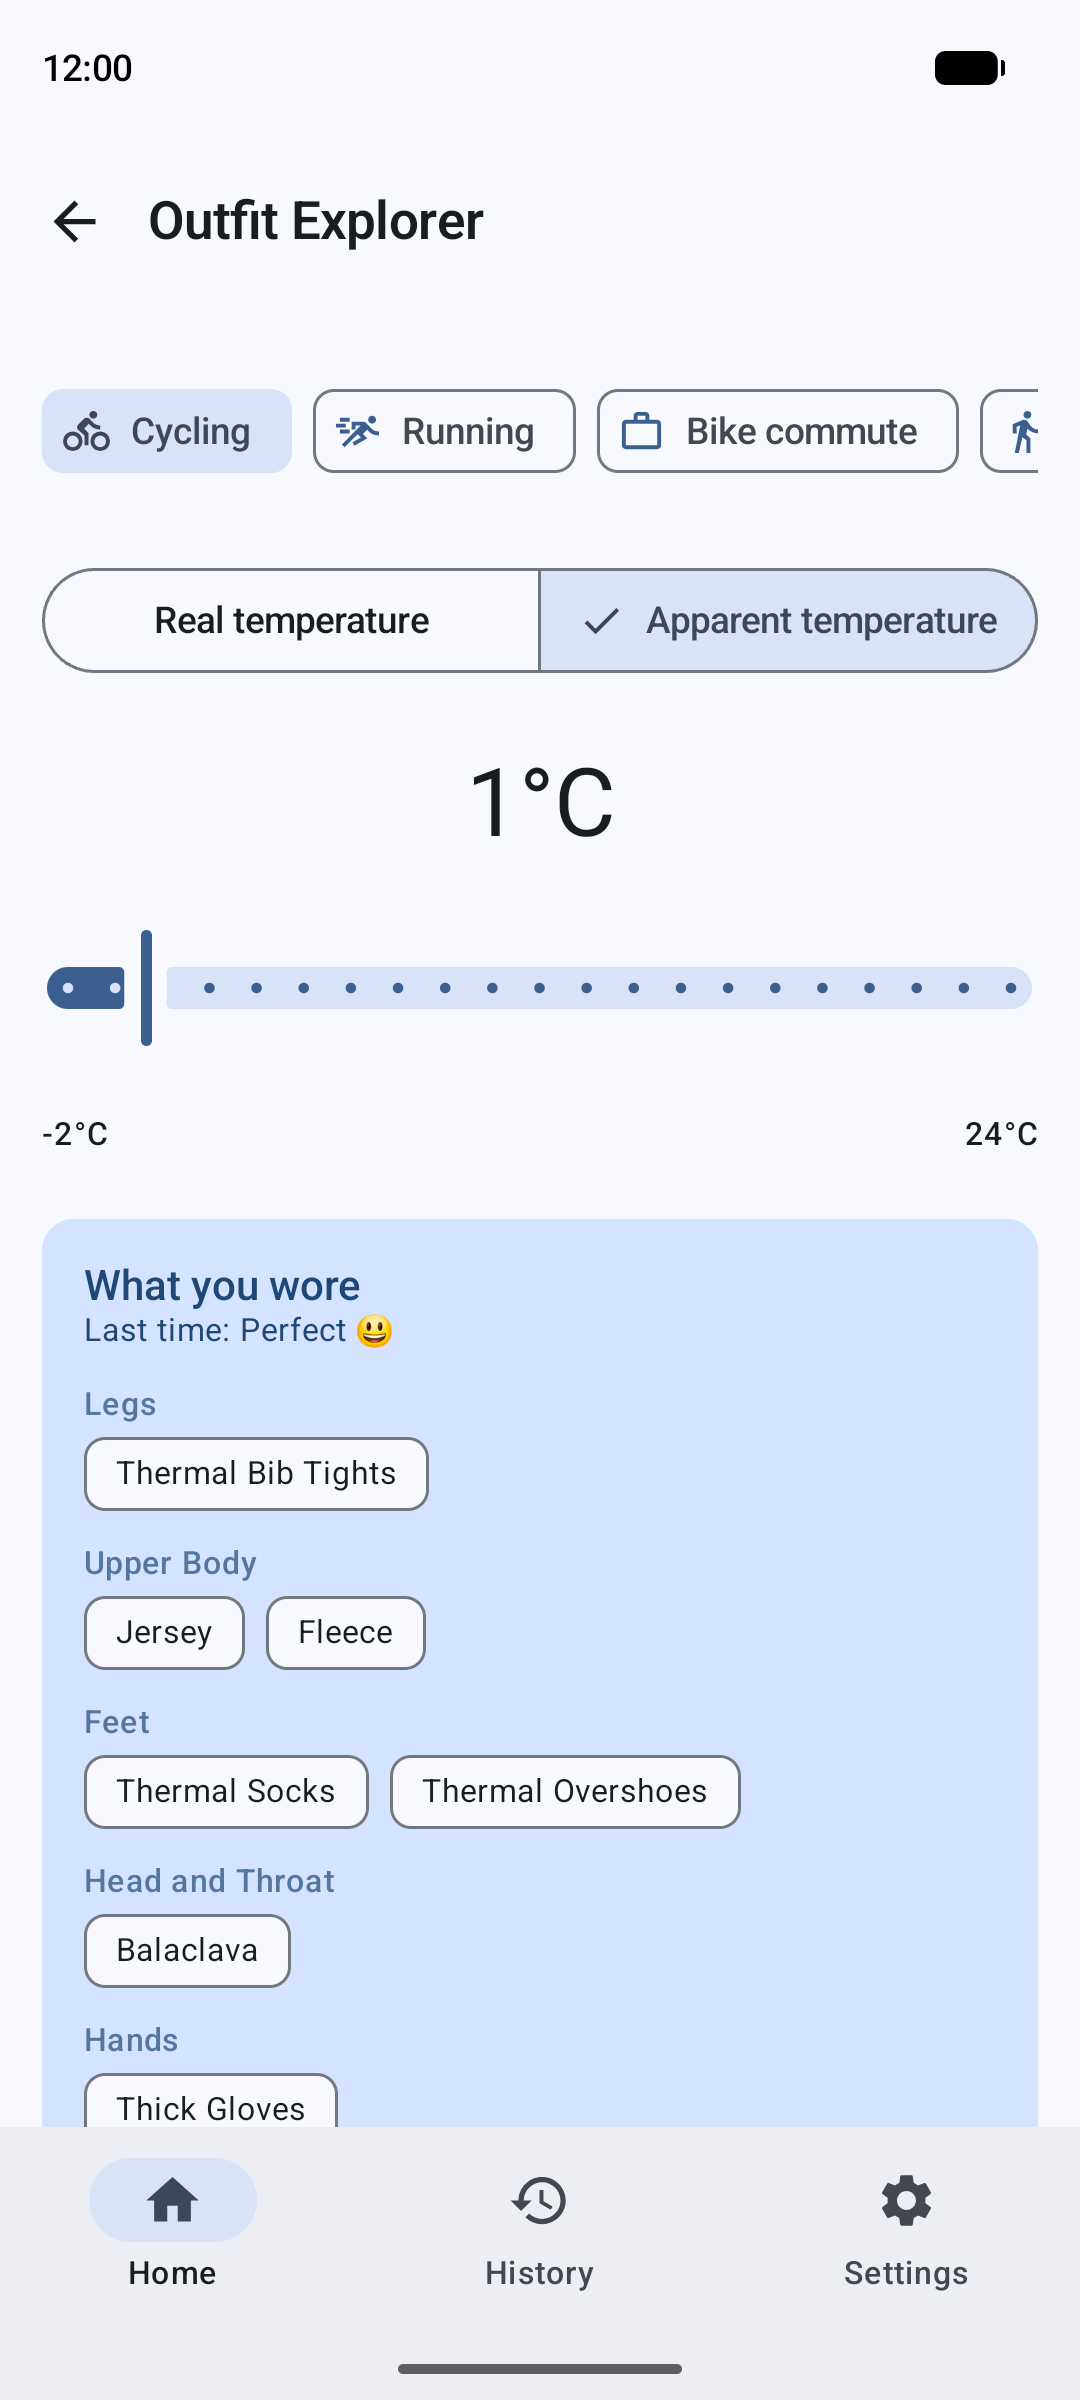
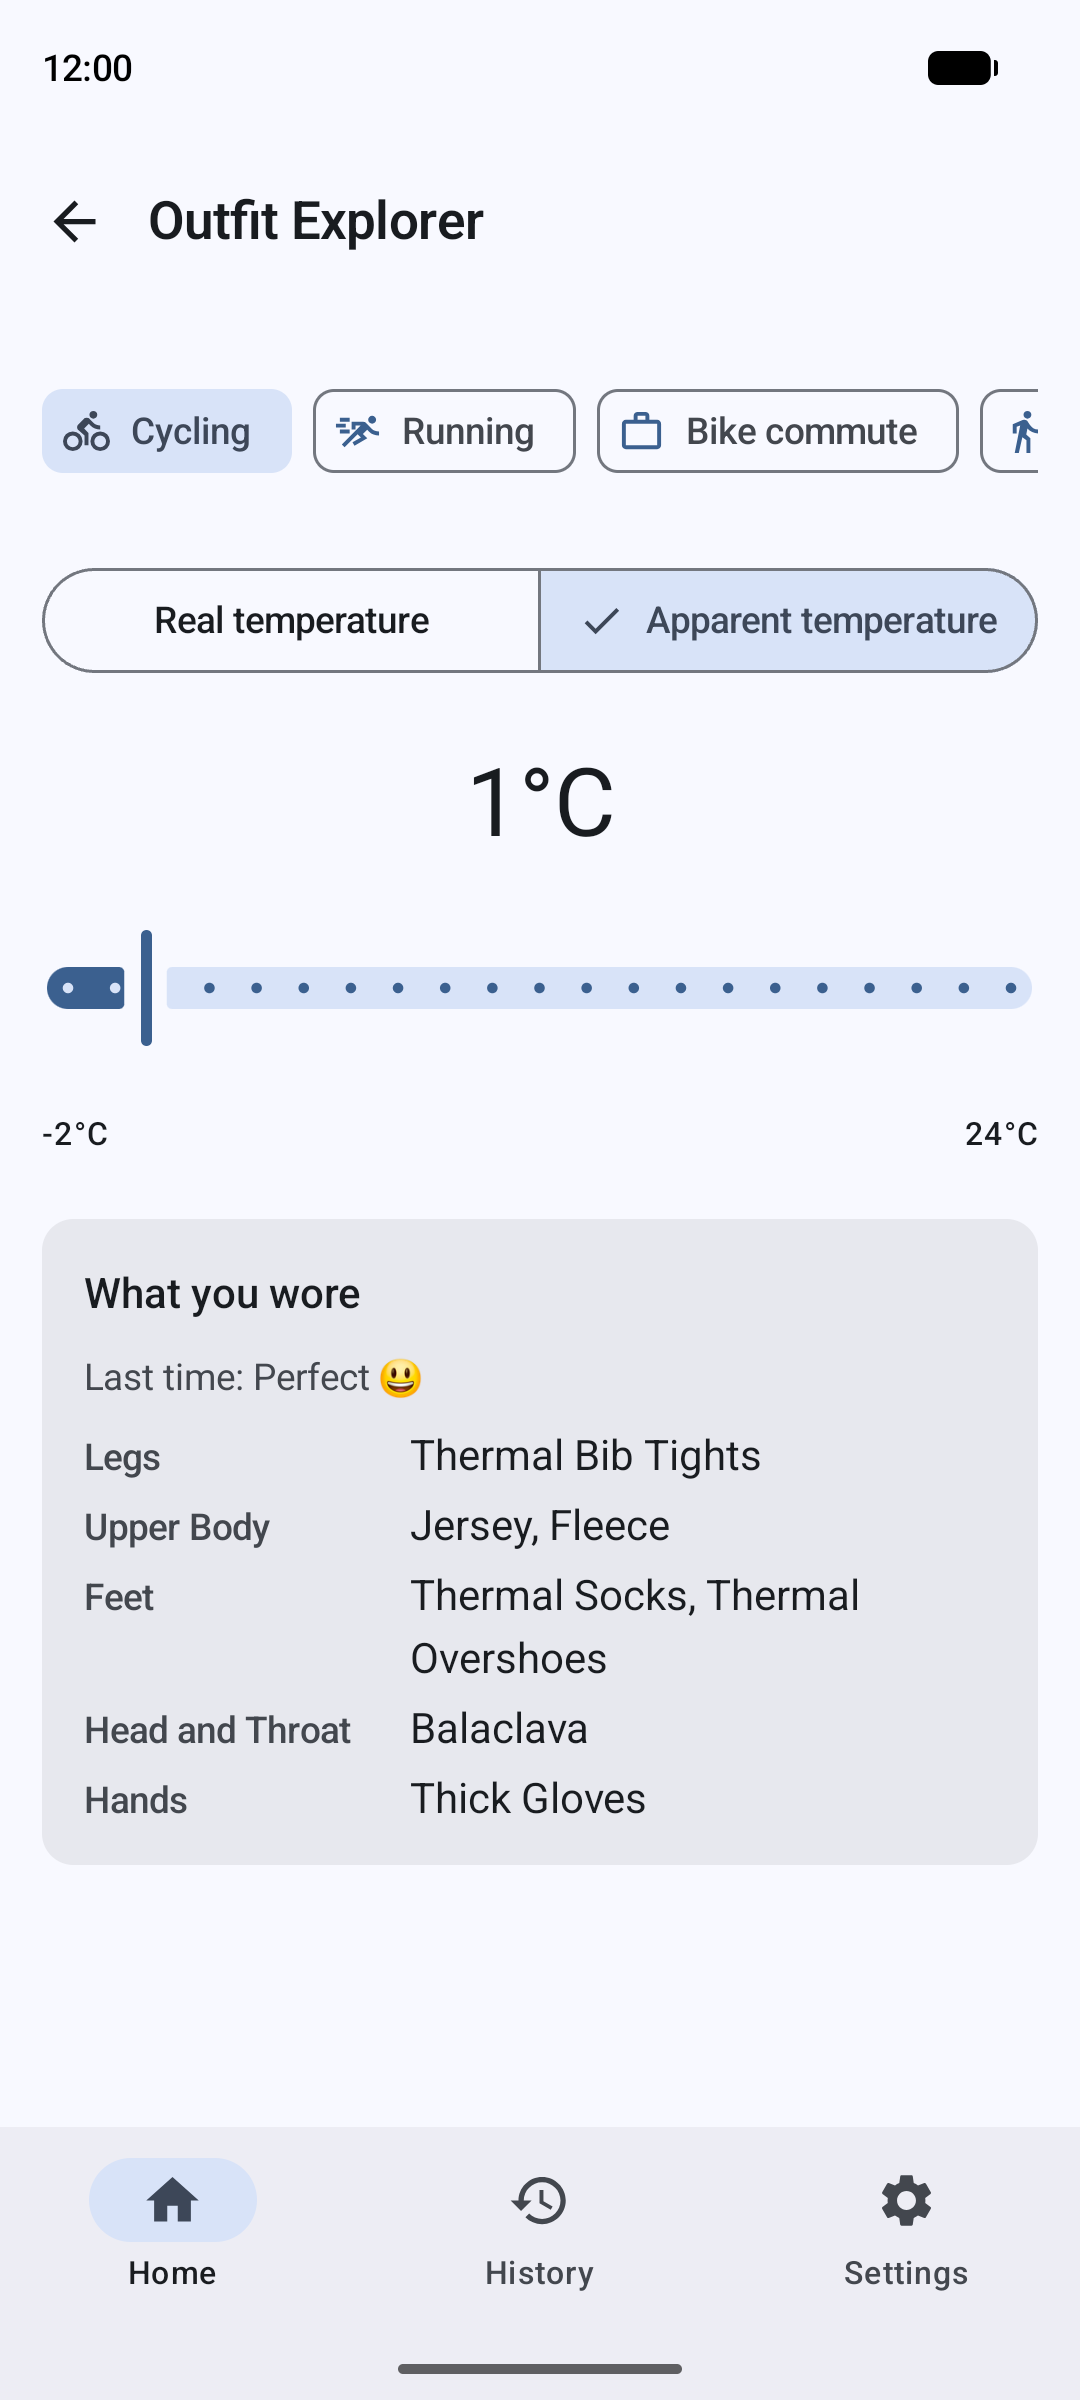
Explorer: show the outfit like Home's recommendation card
Home's outfit card body moves to a shared OutfitCard in ui/components
(title, "Last time: …", body-part label column with comma-joined items,
italic notes) on the neutral surfaceContainerHigh container, with the
pencil only when an edit action is passed. Explorer uses it without one,
dropping its primaryContainer card and the non-tappable item chips.

Explorer screenshot regenerated.

Closes #24.

Changed region(s): [[0.0306, 0.5312, 0.9778, 0.9062], [0.6722, 0.6562, 0.7944, 0.6875]]

diff --git a/app/src/main/java/com/example/perfectoutfit/feature/home/HomeScreen.kt b/app/src/main/java/com/example/perfectoutfit/feature/home/HomeScreen.kt
@@ -27,7 +27,6 @@ import androidx.compose.foundation.rememberScrollState
 import androidx.compose.foundation.verticalScroll
 import androidx.compose.material.icons.Icons
 import androidx.compose.material.icons.automirrored.filled.ArrowBack
-import androidx.compose.material.icons.filled.Edit
 import androidx.compose.material.icons.filled.Info
 import androidx.compose.material.icons.filled.LocationOn
 import androidx.compose.material.icons.filled.Warning
@@ -69,7 +68,6 @@ import androidx.compose.ui.res.painterResource
 import androidx.compose.ui.res.stringResource
 import androidx.compose.ui.text.SpanStyle
 import androidx.compose.ui.text.buildAnnotatedString
-import androidx.compose.ui.text.font.FontStyle
 import androidx.compose.ui.text.style.TextAlign
 import androidx.compose.ui.text.style.TextOverflow
 import androidx.compose.ui.text.withStyle
@@ -77,10 +75,8 @@ import androidx.compose.ui.unit.dp
 import androidx.hilt.navigation.compose.hiltViewModel
 import androidx.lifecycle.compose.collectAsStateWithLifecycle
 import com.example.perfectoutfit.R
-import com.example.perfectoutfit.core.model.BODY_PART_DISPLAY_ORDER
-import com.example.perfectoutfit.core.model.OutfitEntryWithDetails
 import com.example.perfectoutfit.core.model.ActivityType
-import com.example.perfectoutfit.ui.components.ratingLabel
+import com.example.perfectoutfit.ui.components.OutfitCard
 import java.time.format.DateTimeFormatter
 import kotlinx.coroutines.launch
 
@@ -456,7 +452,11 @@ private fun ResultStep(
 
                 val recommendation = uiState.activeRecommendation
                 if (recommendation != null) {
-                    RecommendationCard(recommendation = recommendation, onEditOutfit = onEditOutfit)
+                    OutfitCard(
+                        title = "Recommended outfit",
+                        outfit = recommendation,
+                        onEditOutfit = onEditOutfit
+                    )
                 } else {
                     NoRecommendationCard(displayTemp = uiState.activeDisplayTemp)
                 }
@@ -604,84 +604,6 @@ private fun WeatherMetric(label: String, value: String, unit: String, modifier: 
         )
     }
 }
-
-@Composable
-private fun RecommendationCard(
-    recommendation: OutfitEntryWithDetails,
-    onEditOutfit: () -> Unit
-) {
-    val itemsByBodyPart = recommendation.clothingItems.groupBy { it.bodyPart }
-    val ratingText = ratingLabel(recommendation.entry.comfortRating)
-
-    Card(modifier = Modifier.fillMaxWidth(), colors = neutralCardColors()) {
-        Row(
-            modifier = Modifier.padding(start = 16.dp, end = 4.dp, top = 4.dp),
-            verticalAlignment = Alignment.CenterVertically
-        ) {
-            Text(
-                text = "Recommended outfit",
-                style = MaterialTheme.typography.titleMedium,
-                modifier = Modifier.weight(1f)
-            )
-            IconButton(onClick = onEditOutfit) {
-                Icon(
-                    Icons.Default.Edit,
-                    contentDescription = "Edit outfit",
-                    tint = MaterialTheme.colorScheme.onSurfaceVariant
-                )
-            }
-        }
-        Column(
-            modifier = Modifier.padding(start = 16.dp, end = 16.dp, bottom = 16.dp),
-            verticalArrangement = Arrangement.spacedBy(8.dp)
-        ) {
-            if (ratingText.isNotEmpty()) {
-                Text(
-                    text = "Last time: $ratingText",
-                    style = MaterialTheme.typography.bodyMedium,
-                    color = MaterialTheme.colorScheme.onSurfaceVariant,
-                    modifier = Modifier.padding(bottom = 4.dp)
-                )
-            }
-
-            BODY_PART_DISPLAY_ORDER.forEach { part ->
-                val items = itemsByBodyPart[part]
-                if (!items.isNullOrEmpty()) {
-                    Row(horizontalArrangement = Arrangement.spacedBy(12.dp)) {
-                        Text(
-                            text = part.displayName,
-                            style = MaterialTheme.typography.labelLarge,
-                            color = MaterialTheme.colorScheme.onSurfaceVariant,
-                            // Lines its first line up with the items' larger text.
-                            modifier = Modifier
-                                .width(BODY_PART_LABEL_WIDTH)
-                                .padding(top = 2.dp)
-                        )
-                        Text(
-                            text = items.joinToString(", ") { it.name },
-                            style = MaterialTheme.typography.bodyLarge,
-                            modifier = Modifier.weight(1f)
-                        )
-                    }
-                }
-            }
-
-            val notes = recommendation.entry.notes
-            if (notes.isNotEmpty()) {
-                Text(
-                    text = notes,
-                    style = MaterialTheme.typography.bodyMedium,
-                    fontStyle = FontStyle.Italic,
-                    color = MaterialTheme.colorScheme.onSurfaceVariant,
-                    modifier = Modifier.padding(top = 4.dp)
-                )
-            }
-        }
-    }
-}
-
-/** Fits "Head and Throat", the longest body part name, on one line. */
-private val BODY_PART_LABEL_WIDTH = 112.dp
 
 @Composable
 private fun NoRecommendationCard(displayTemp: Int) {

diff --git a/app/src/main/java/com/example/perfectoutfit/ui/components/OutfitCard.kt b/app/src/main/java/com/example/perfectoutfit/ui/components/OutfitCard.kt
@@ -1,0 +1,116 @@
+package com.example.perfectoutfit.ui.components
+
+import androidx.compose.foundation.layout.Arrangement
+import androidx.compose.foundation.layout.Column
+import androidx.compose.foundation.layout.Row
+import androidx.compose.foundation.layout.fillMaxWidth
+import androidx.compose.foundation.layout.heightIn
+import androidx.compose.foundation.layout.padding
+import androidx.compose.foundation.layout.width
+import androidx.compose.material.icons.Icons
+import androidx.compose.material.icons.filled.Edit
+import androidx.compose.material3.Card
+import androidx.compose.material3.CardDefaults
+import androidx.compose.material3.Icon
+import androidx.compose.material3.IconButton
+import androidx.compose.material3.MaterialTheme
+import androidx.compose.material3.Text
+import androidx.compose.runtime.Composable
+import androidx.compose.ui.Alignment
+import androidx.compose.ui.Modifier
+import androidx.compose.ui.text.font.FontStyle
+import androidx.compose.ui.unit.dp
+import com.example.perfectoutfit.core.model.BODY_PART_DISPLAY_ORDER
+import com.example.perfectoutfit.core.model.OutfitEntryWithDetails
+
+/**
+ * A logged outfit as a plain body-part list: how it felt last time, the items per
+ * body part, and the notes. With [onEditOutfit] the title row carries a pencil.
+ */
+@Composable
+fun OutfitCard(
+    title: String,
+    outfit: OutfitEntryWithDetails,
+    modifier: Modifier = Modifier,
+    onEditOutfit: (() -> Unit)? = null
+) {
+    val itemsByBodyPart = outfit.clothingItems.groupBy { it.bodyPart }
+    val ratingText = ratingLabel(outfit.entry.comfortRating)
+
+    Card(
+        modifier = modifier.fillMaxWidth(),
+        colors = CardDefaults.cardColors(containerColor = MaterialTheme.colorScheme.surfaceContainerHigh)
+    ) {
+        Row(
+            // Keeps the icon button's height without the pencil, so the body sits alike.
+            modifier = Modifier
+                .padding(start = 16.dp, end = 4.dp, top = 4.dp)
+                .heightIn(min = 48.dp),
+            verticalAlignment = Alignment.CenterVertically
+        ) {
+            Text(
+                text = title,
+                style = MaterialTheme.typography.titleMedium,
+                modifier = Modifier.weight(1f)
+            )
+            if (onEditOutfit != null) {
+                IconButton(onClick = onEditOutfit) {
+                    Icon(
+                        Icons.Default.Edit,
+                        contentDescription = "Edit outfit",
+                        tint = MaterialTheme.colorScheme.onSurfaceVariant
+                    )
+                }
+            }
+        }
+        Column(
+            modifier = Modifier.padding(start = 16.dp, end = 16.dp, bottom = 16.dp),
+            verticalArrangement = Arrangement.spacedBy(8.dp)
+        ) {
+            if (ratingText.isNotEmpty()) {
+                Text(
+                    text = "Last time: $ratingText",
+                    style = MaterialTheme.typography.bodyMedium,
+                    color = MaterialTheme.colorScheme.onSurfaceVariant,
+                    modifier = Modifier.padding(bottom = 4.dp)
+                )
+            }
+
+            BODY_PART_DISPLAY_ORDER.forEach { part ->
+                val items = itemsByBodyPart[part]
+                if (!items.isNullOrEmpty()) {
+                    Row(horizontalArrangement = Arrangement.spacedBy(12.dp)) {
+                        Text(
+                            text = part.displayName,
+                            style = MaterialTheme.typography.labelLarge,
+                            color = MaterialTheme.colorScheme.onSurfaceVariant,
+                            // Lines its first line up with the items' larger text.
+                            modifier = Modifier
+                                .width(BODY_PART_LABEL_WIDTH)
+                                .padding(top = 2.dp)
+                        )
+                        Text(
+                            text = items.joinToString(", ") { it.name },
+                            style = MaterialTheme.typography.bodyLarge,
+                            modifier = Modifier.weight(1f)
+                        )
+                    }
+                }
+            }
+
+            val notes = outfit.entry.notes
+            if (notes.isNotEmpty()) {
+                Text(
+                    text = notes,
+                    style = MaterialTheme.typography.bodyMedium,
+                    fontStyle = FontStyle.Italic,
+                    color = MaterialTheme.colorScheme.onSurfaceVariant,
+                    modifier = Modifier.padding(top = 4.dp)
+                )
+            }
+        }
+    }
+}
+
+/** Fits "Head and Throat", the longest body part name, on one line. */
+private val BODY_PART_LABEL_WIDTH = 112.dp

diff --git a/app/src/main/java/com/example/perfectoutfit/feature/explorer/ExplorerScreen.kt b/app/src/main/java/com/example/perfectoutfit/feature/explorer/ExplorerScreen.kt
@@ -2,8 +2,6 @@ package com.example.perfectoutfit.feature.explorer
 
 import androidx.compose.foundation.layout.Arrangement
 import androidx.compose.foundation.layout.Column
-import androidx.compose.foundation.layout.ExperimentalLayoutApi
-import androidx.compose.foundation.layout.FlowRow
 import androidx.compose.foundation.layout.Row
 import androidx.compose.foundation.layout.WindowInsets
 import androidx.compose.foundation.layout.fillMaxSize
@@ -13,8 +11,6 @@ import androidx.compose.foundation.rememberScrollState
 import androidx.compose.foundation.verticalScroll
 import androidx.compose.material.icons.Icons
 import androidx.compose.material.icons.automirrored.filled.ArrowBack
-import androidx.compose.material3.Card
-import androidx.compose.material3.CardDefaults
 import androidx.compose.material3.CircularProgressIndicator
 import androidx.compose.material3.ExperimentalMaterial3Api
 import androidx.compose.material3.Icon
@@ -31,12 +27,9 @@ import androidx.compose.ui.text.style.TextAlign
 import androidx.compose.ui.unit.dp
 import androidx.hilt.navigation.compose.hiltViewModel
 import androidx.lifecycle.compose.collectAsStateWithLifecycle
-import com.example.perfectoutfit.core.model.BODY_PART_DISPLAY_ORDER
-import com.example.perfectoutfit.core.model.OutfitEntryWithDetails
-import com.example.perfectoutfit.ui.components.ClothingItemChip
 import com.example.perfectoutfit.ui.components.ActivityTypeSelector
+import com.example.perfectoutfit.ui.components.OutfitCard
 import com.example.perfectoutfit.ui.components.TemperatureModeToggle
-import com.example.perfectoutfit.ui.components.ratingLabel
 import kotlin.math.roundToInt
 
 @OptIn(ExperimentalMaterial3Api::class)
@@ -124,67 +117,7 @@ fun ExplorerScreen(
                     }
 
                     uiState.recommendation?.let { recommendation ->
-                        ExplorerRecommendationCard(recommendation)
-                    }
-                }
-            }
-        }
-    }
-}
-
-@OptIn(ExperimentalLayoutApi::class)
-@Composable
-private fun ExplorerRecommendationCard(recommendation: OutfitEntryWithDetails) {
-    val itemsByBodyPart = recommendation.clothingItems.groupBy { it.bodyPart }
-    val ratingText = ratingLabel(recommendation.entry.comfortRating)
-
-    Card(
-        modifier = Modifier.fillMaxWidth(),
-        colors = CardDefaults.cardColors(
-            containerColor = MaterialTheme.colorScheme.primaryContainer
-        )
-    ) {
-        Column(modifier = Modifier.padding(16.dp)) {
-            Text(
-                text = "What you wore",
-                style = MaterialTheme.typography.titleMedium,
-                color = MaterialTheme.colorScheme.onPrimaryContainer
-            )
-
-            if (ratingText.isNotEmpty()) {
-                Text(
-                    text = "Last time: $ratingText",
-                    style = MaterialTheme.typography.bodySmall,
-                    color = MaterialTheme.colorScheme.onPrimaryContainer
-                )
-            }
-
-            val notes = recommendation.entry.notes
-            if (notes.isNotEmpty()) {
-                Text(
-                    text = "Outfit notes: $notes",
-                    style = MaterialTheme.typography.bodySmall,
-                    color = MaterialTheme.colorScheme.onPrimaryContainer
-                )
-            }
-
-            BODY_PART_DISPLAY_ORDER.forEach { part ->
-                val items = itemsByBodyPart[part]
-                if (!items.isNullOrEmpty()) {
-                    Text(
-                        text = part.displayName,
-                        style = MaterialTheme.typography.labelMedium,
-                        color = MaterialTheme.colorScheme.onPrimaryContainer.copy(alpha = 0.7f),
-                        modifier = Modifier.padding(top = 12.dp, bottom = 4.dp)
-                    )
-                    FlowRow(
-                        horizontalArrangement = Arrangement.spacedBy(8.dp),
-                        verticalArrangement = Arrangement.spacedBy(6.dp),
-                        modifier = Modifier.fillMaxWidth()
-                    ) {
-                        items.forEach { item ->
-                            ClothingItemChip(name = item.name)
-                        }
+                        OutfitCard(title = "What you wore", outfit = recommendation)
                     }
                 }
             }
